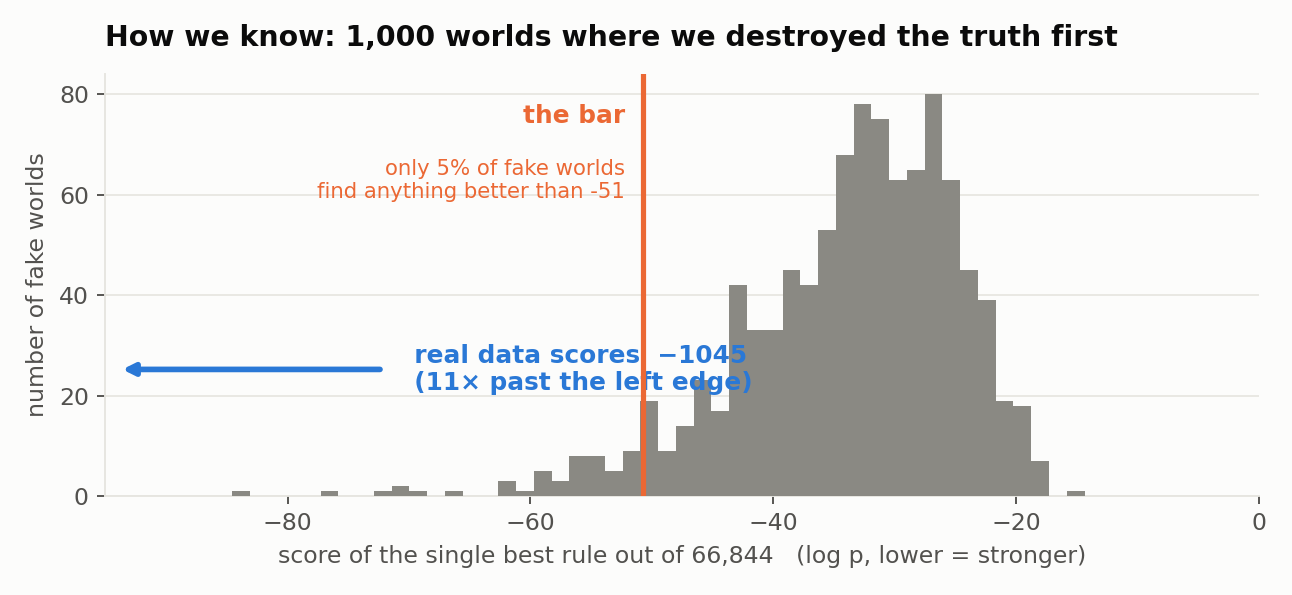
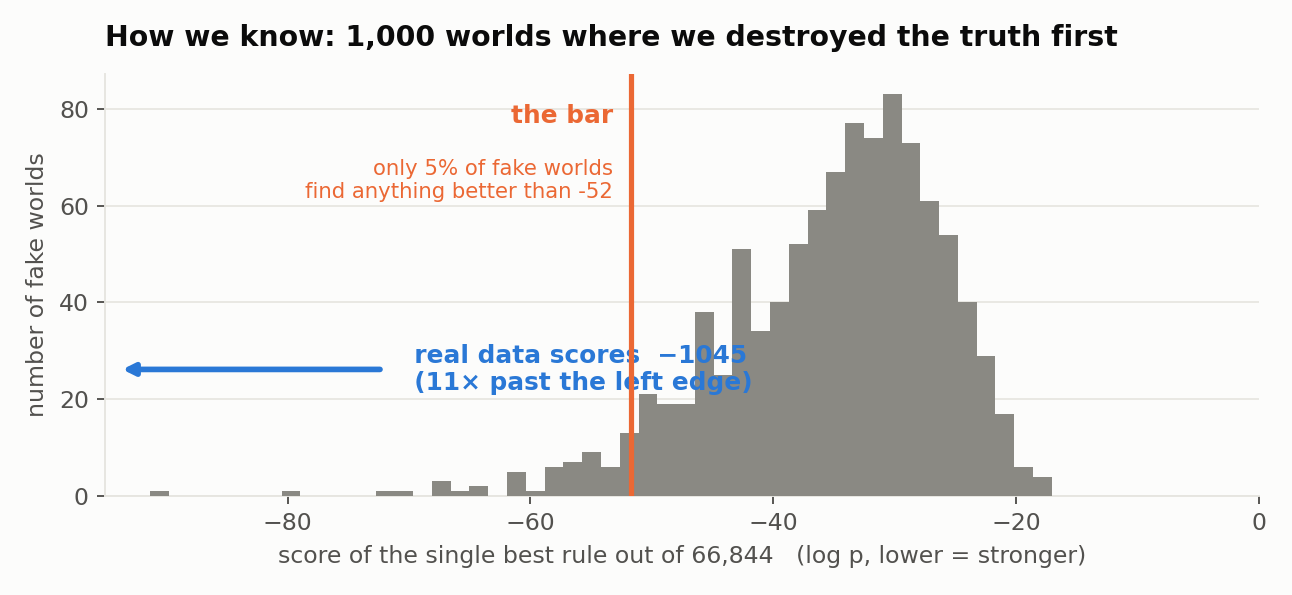
Correct the speed-ladder figure: 122x, and relabel the CPU rung as 1-core numpy
Claude-Session: https://claude.ai/code/session_01Uo2CVCChoopeoq68wnvpmY

diff --git a/figs.py b/figs.py
@@ -72,7 +72,7 @@ ax.set_title('Rules found on the mid-Atlantic grid, tested on four others: 57 of
 style(ax); plt.tight_layout(); plt.savefig('fig3_replication.png', dpi=170); plt.close()
 
 # ---------------------------------------------------------------- 4 ladder
-names = ['Naive\n(plain Python)','Faster maths\n(our algorithm)','14 CPU cores','GPU']
+names = ['Naive\n(plain Python)','Faster maths\n(our algorithm)','Bitset counts\n(1 core, numpy)','GPU']
 ms = [1510.6, 83.3, 58.4, 0.48]
 fig, ax = plt.subplots(figsize=(7.6, 3.3))
 cols4 = [MUTED, YELLOW, ORANGE, BLUE]
@@ -84,12 +84,14 @@ for i,v in enumerate(ms):
 ax.annotate('', xy=(3, 0.9), xytext=(0, 900),
             arrowprops=dict(arrowstyle='-|>', color=BLUE, lw=2,
                             connectionstyle='arc3,rad=-0.22'))
-ax.text(1.5, 260, '3,134× faster end to end', color=BLUE, fontweight='bold',
-        fontsize=11.5, ha='center')
+ax.text(1.5, 260, '122× end to end  (3,134× from naive)', color=BLUE,
+        fontweight='bold', fontsize=11, ha='center')
 ax.set_xticks(range(4)); ax.set_xticklabels(names, fontsize=9.5)
 ax.set_ylabel('time per test (ms, log scale)'); ax.set_ylim(0.03, 9000)
 ax.set_title('Each step measured on the same machine, same statistic',
              loc='left', fontweight='bold', fontsize=12, pad=12)
+ax.text(0, 0.045, 'the CPU baseline is single-threaded and unfused; a tuned one '
+        'would narrow this considerably', fontsize=8, color=MUTED, style='italic')
 style(ax); plt.tight_layout(); plt.savefig('fig4_ladder.png', dpi=170); plt.close()
 
 # ---------------------------------------------------------------- 5 weather
